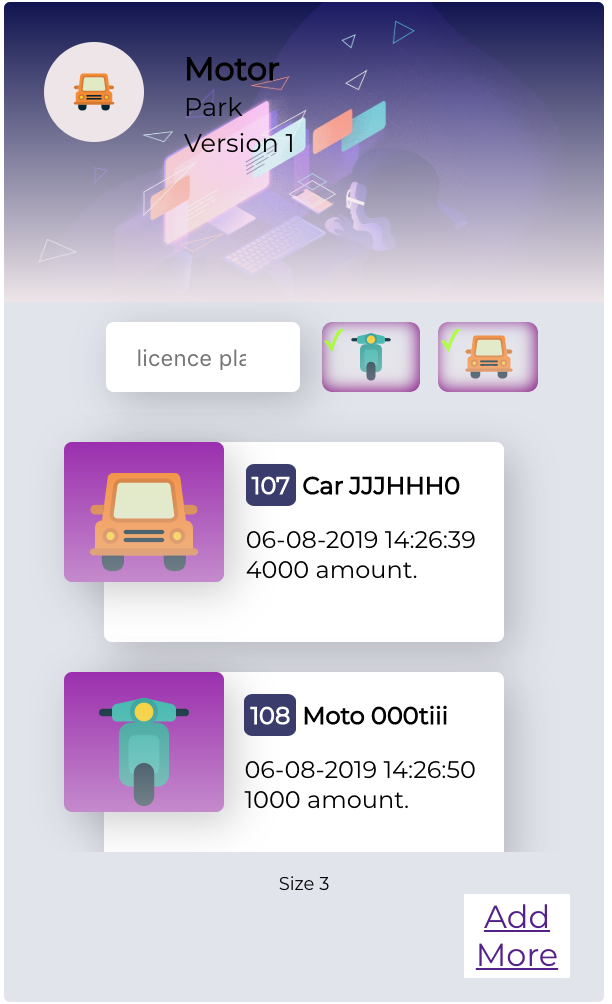
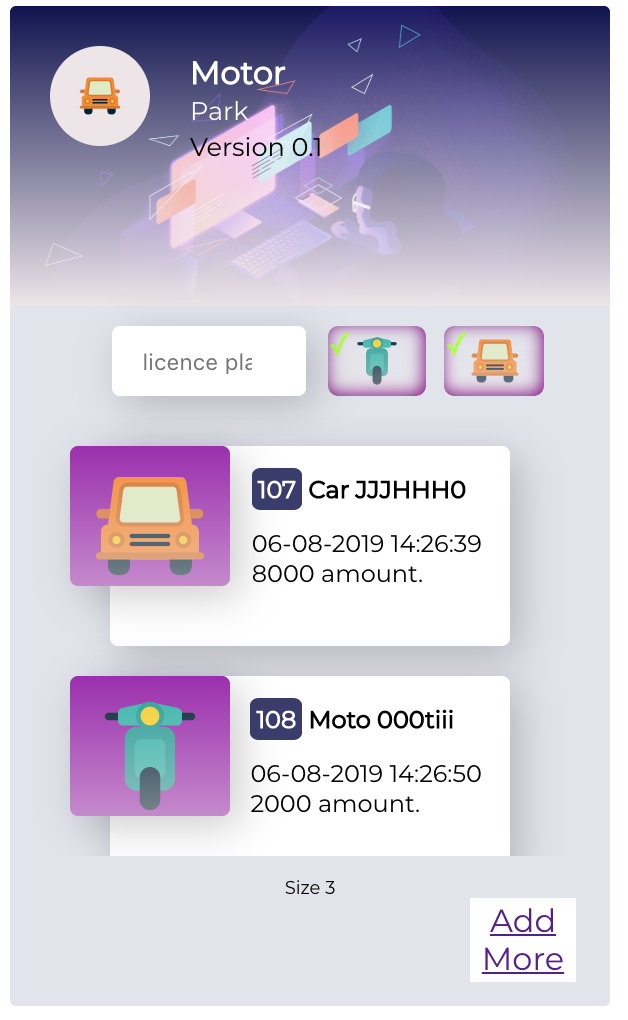
black and white head css.

diff --git a/client/src/components/list/List.js b/client/src/components/list/List.js
@@ -134,8 +134,8 @@ class List extends Component<Props, State> {
             <div className={this.state.class_modal}>
                 <div className="message"> Are you sure you want to finish the process?</div>
                 <div className="container-modal-button">
-                    <div onClick={this.cancelAction} className="cancel">Cancel</div>
-                    <div onClick={this.sendAction} className="update">Out</div>
+                    <div onClick={this.cancelAction} className="cancel">No</div>
+                    <div onClick={this.sendAction} className="update">Yes</div>
                 </div>
             </div>
                 <div className="box">
@@ -145,7 +145,7 @@ class List extends Component<Props, State> {
                         </div>
                         <div className="desc">
                             <p>Motor</p>
-                            <p>Park <br></br> Version 1 </p>
+                            <p>Park <br></br><span className="version"> Version 0.1</span>  </p>
                         </div>
                     </div>
                     

diff --git a/client/src/components/new/New.js b/client/src/components/new/New.js
@@ -55,7 +55,7 @@ class New extends Component<Props, State> {
                         </div>
                         <div className="desc">
                             <p>Motor</p>
-                            <p>Park <br></br> Version 1 </p>
+                            <p>Park <br></br> <span className="version">Version 0.1 </span> </p>
                         </div>
                     </div>
                     <div className="form">

diff --git a/client/src/components/list/list.scss b/client/src/components/list/list.scss
@@ -62,8 +62,11 @@ span.number {
   margin-top: 25px;
   margin-left: -50px;
 }
+.version{
+  color:#000;
+}
 .header p{
-  color: #000;
+  color: white;
   font-size: .8 em;
   font-weight: 600;
   line-height: 18px;
@@ -101,6 +104,7 @@ span.number {
     color: black;
     padding: 10px;
     margin-top: 32px;
+    text-align: center;
   }
   .cancel{
     border-top-left-radius: 4px;
